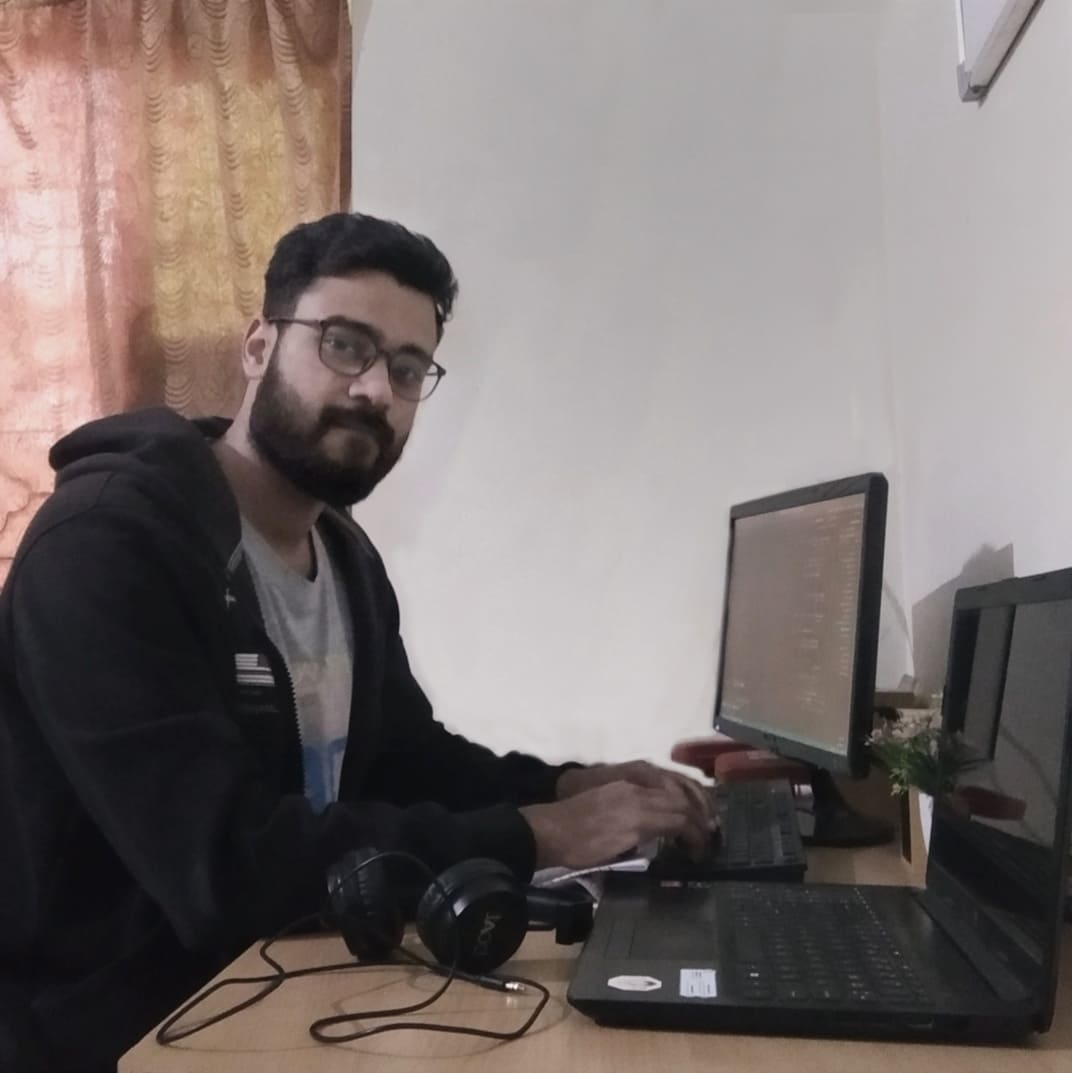
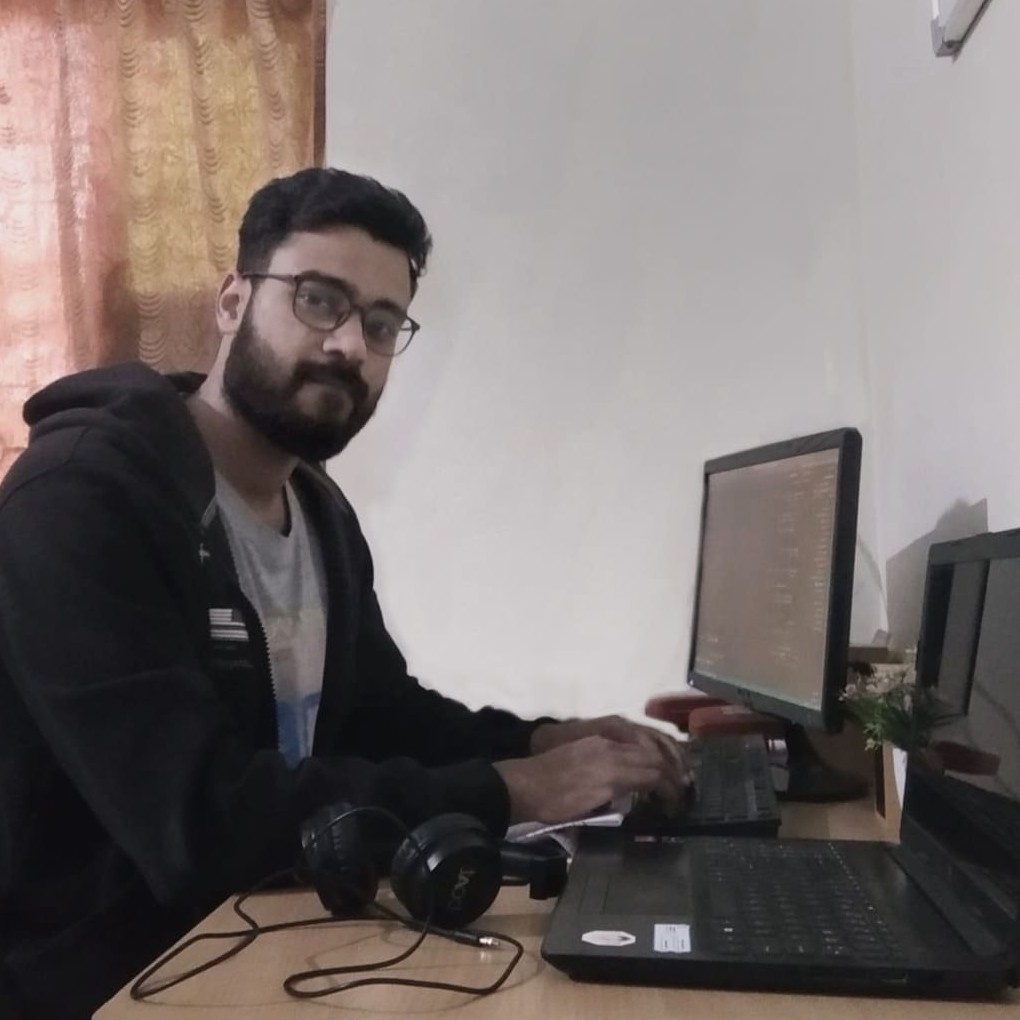
netlify

diff --git a/src/containers/team/imports.js b/src/containers/team/imports.js
@@ -1,6 +1,6 @@
 import team01 from '../../assets/team01.png';
 import team02 from '../../assets/team02.jpeg';
-import team03 from '../../assets/team03.jpg';
+import team03 from '../../assets/team03.jpeg';
 import team04 from '../../assets/team04.jpeg';
 import team05 from '../../assets/team05.jpeg';
 import team06 from '../../assets/team06.jpeg';

diff --git a/README.md b/README.md
@@ -1,6 +1,6 @@
 # CSS AMU Website
 
-[![Netlify Status](https://api.netlify.com/api/v1/badges/d03c1a56-405f-403e-a3ee-ce45b494a13b/deploy-status)](https://app.netlify.com/sites/cssamu/deploys)
+[![Netlify Status](https://api.netlify.com/api/v1/badges/142b25f5-170a-4fa0-bb24-da2ce2716bc5/deploy-status)](https://app.netlify.com/sites/cssamu/deploys)
 
 This project was bootstrapped with [Create React App](https://github.com/facebook/create-react-app).
 
